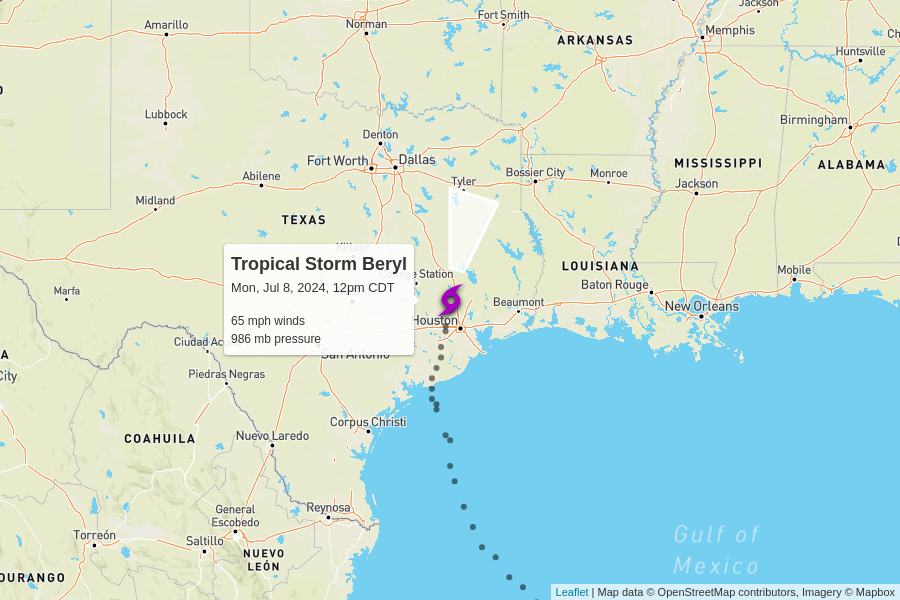
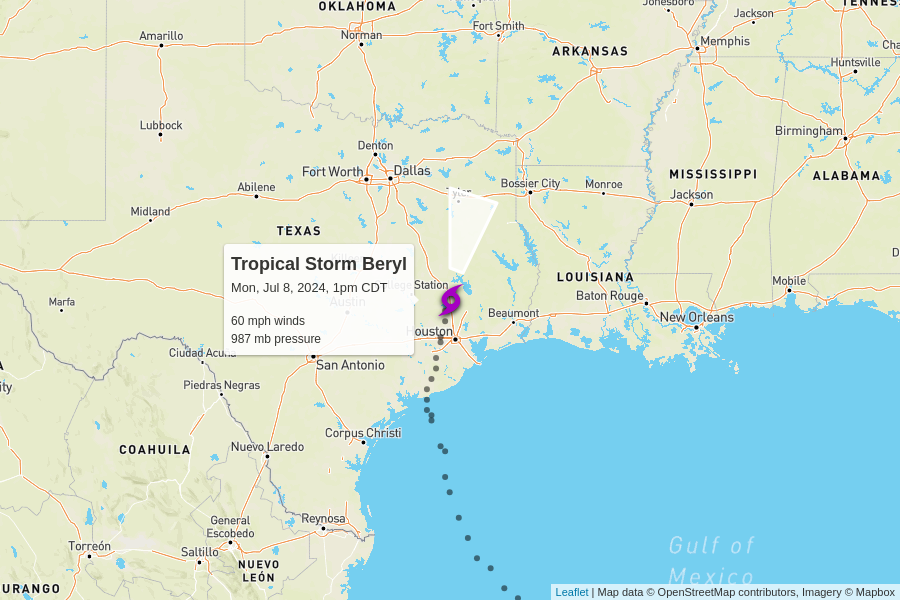
automatic update

diff --git a/docs/index.html b/docs/index.html
@@ -102,7 +102,7 @@
         <td colspan="6" class="storm category-0" >
           <h2>
             Tropical Storm Beryl
-            <p class="updated">last updated <span data-time>2024-07-08T17:00:00.000Z</span></p>
+            <p class="updated">last updated <span data-time>2024-07-08T18:00:00.000Z</span></p>
           </h2>
         </td>
       </tr>
@@ -117,10 +117,10 @@
       </tr>
       <tr>
         <td class="spacer"></td>
-        <td>65 mph<br>-5 mph since last update</td>
-        <td>986 mb<br>+2 mb since last update</td>
+        <td>60 mph<br>-5 mph since last update</td>
+        <td>987 mb<br>+1 mb since last update</td>
         <td>
-          13 mph to the north-northeast
+          14 mph to the north-northeast
           <br/>
           <span style="display: inline-block; font-size: 1.5em; transform: rotate(15deg);">↑</span>
         </td>
